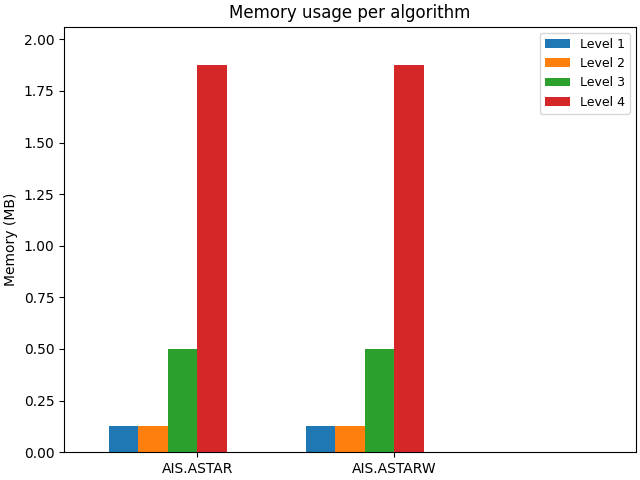
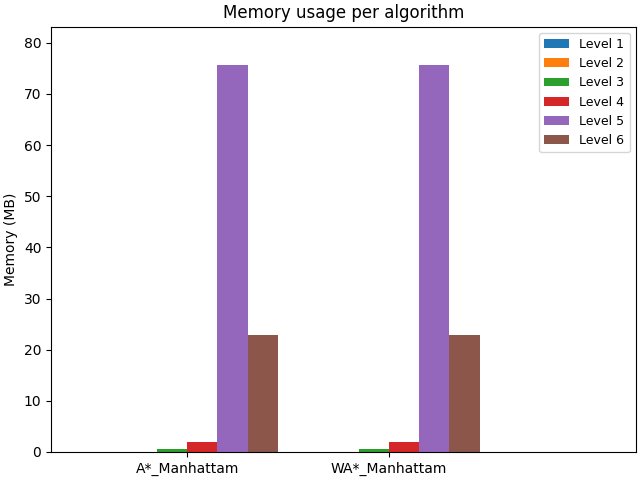
Taking results

diff --git a/src/test.py b/src/test.py
@@ -16,8 +16,13 @@ global curr_level
 
 RESULST_DIR = 'analitics/'
 
-algorithms = [ AIS.ASTAR, AIS.ASTARW]
-heuristics = [H.MISS, H.LINECOLUMN, H.PATTERN, H.MANHATTAN, H.MANHATTAN_PATTERN]
+algorithms = [ AIS.GREDDY]
+heuristics = [ H.MISS, H.LINECOLUMN,H.PATTERN,H.MANHATTAN,H.MANHATTAN_PATTERN]
+
+x_labels = []
+for alg in ['A*']:
+    for heu in ['Miss','Row_collum','Pattern','Manhattam','Manhattma_Pattern']:
+        x_labels.append(alg + '_'+ heu)
 
 time_labels = {
     "file_name": "time_plot.png",
@@ -46,8 +51,7 @@ def run_with_timeout(fn, timeout_seconds, *args, **kwargs):
     signal.alarm(timeout_seconds)
     try:
         result = fn(*args, **kwargs)
-    except TimeoutError as e:
-        print(e)
+    except :
         result = []
     finally:
         signal.alarm(0)  
@@ -94,7 +98,7 @@ def test_ai(algorithm , levels, heuristic, weight=1):
     for level in levels:
         curr_level = level.level
         start_time = time.time()
-        data.append(run_with_timeout(run_test, 2,algorithm, heuristic, weight))
+        data.append(run_with_timeout(run_test, 120,algorithm, heuristic, weight))
     return data
 
 def draw_plot(data, measure):
@@ -121,10 +125,13 @@ def draw_plot(data, measure):
         rects = ax.bar(x + offset, measurement, width, label=attribute)
         multiplier += 1
 
+
     # Add some text for labels, title and custom x-axis tick labels, etc.
     ax.set_ylabel(labels[measure - 1]["y_label"])
     ax.set_title(labels[measure - 1]["title"])
-    ax.set_xticks(x + (0.5 * (n_levels - 1))*width, algorithms)
+    print(bars)
+    print(x_labels)
+    ax.set_xticks(x + (0.5 * (n_levels - 1))*width,x_labels)
     ax.legend(loc='upper right', prop={'size': 9})
     ax.set_ylim(0, max_measure * 1.1)
     ax.set_xlim(-0.3, len(algorithms) + 0.6)
@@ -145,12 +152,24 @@ def main():
             if( level.difficulty == 0): levels.append(level)
 
     for ai_algorithm in algorithms:
-        state = ai_algorithm
-        if (ai_algorithm == AIS.ASTARW):
-            data.append(test_ai( ai_algorithm,  levels, H.MANHATTAN_PATTERN, 1))
+        
+        if (ai_algorithm in [AIS.GREDDY, AIS.ASTAR,AIS.ASTARW] ):
+            for ai_heuristic in heuristics:
+                state = str(ai_algorithm) + '_'+ str(ai_heuristic)
+                if(ai_algorithm == AIS.ASTARW):
+                    data.append(test_ai( ai_algorithm,  levels, ai_heuristic, 3))
+                else:
+                    data.append(test_ai( ai_algorithm,  levels, ai_heuristic))
+                write_to_csv(RESULST_DIR + state + '.csv', data[-1], headers)
         else:
-             data.append(test_ai( ai_algorithm,  levels, H.MANHATTAN_PATTERN))
-        write_to_csv(RESULST_DIR + str(state) + '.csv', data[-1], headers)
+            state = str(ai_algorithm)
+            if( ai_algorithm == AIS.DFS):
+                data.append(test_ai( ai_algorithm,  levels[0:2], None))
+            elif (ai_algorithm == AIS.BFS):
+                data.append(test_ai( ai_algorithm,  levels[0:3], None))
+            else:
+                data.append(test_ai( ai_algorithm,  levels[0:4], None))
+            write_to_csv(RESULST_DIR + state + '.csv', data[-1], headers)
     draw_plot(data, 1) # Time plot
     draw_plot(data, 2) # Space plot
     draw_plot(data, 3) # Moves plot

diff --git a/src/main.py b/src/main.py
@@ -55,18 +55,19 @@ class Game:
         self.controller = controller_class(self.controller.get_state(), self.controller.get_view())
         return True
 
+'''
 if __name__ == "__main__":
      game = Game()
      game.run()
+'''
 
+if __name__ == "__main__":
+    sys.setrecursionlimit(3000)
 
-# if __name__ == "__main__":
-#     sys.setrecursionlimit(3000)
+    level = Level(20)
+    ai = AI(level, AIS.ASTAR, H.MANHATTAN)
 
-#     level = Level(6)
-#     ai = AI(level, AIS.ASTAR, H.PATTERN)
-
-#     print(ai.moves)
-#     print(ai.state.time)
+    print(ai.moves)
+    print(ai.state.time)
 
 

diff --git a/src/AI/heuristics.py b/src/AI/heuristics.py
@@ -16,7 +16,7 @@ def row_collum_miss_match_heuristic(level: Level):
         for color in level.get_main_colors():
             res += abs(target_line[color] - curr_line[color])
             res += abs(target_col[color] - curr_col[color])
-    return res
+    return res + miss_match_heuristic(level)
 
 
 
@@ -70,7 +70,7 @@ def pattern(level:Level):
         line_curr *=2
         if ''.join(line_targ) in ''.join(line_curr):
             count+=1
-    return -count*5 + level.count_mismatched_tiles()
+    return -count
 
     
 

diff --git a/src/model/level.py b/src/model/level.py
@@ -35,10 +35,7 @@ class Level(State):
 
     def __eq__(self, other):
         if isinstance(other, self.__class__):
-            for key, color in self.current_block.items():
-                if( (not (key in self.target_pattern.keys())) or  color != self.target_pattern[key][0]): 
-                    return False
-            return True
+            return self.current_block == other.current_block and self.level == other.level
         else:
             return False
 
